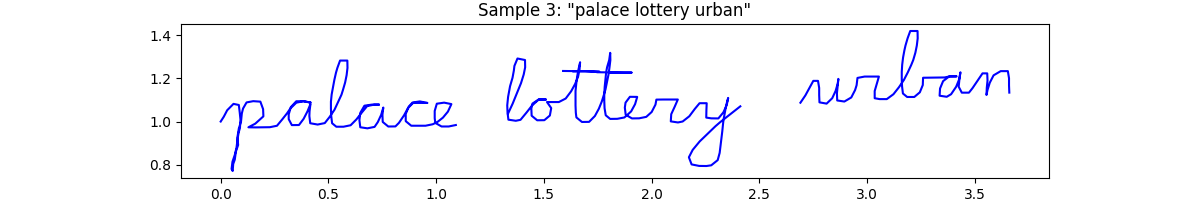
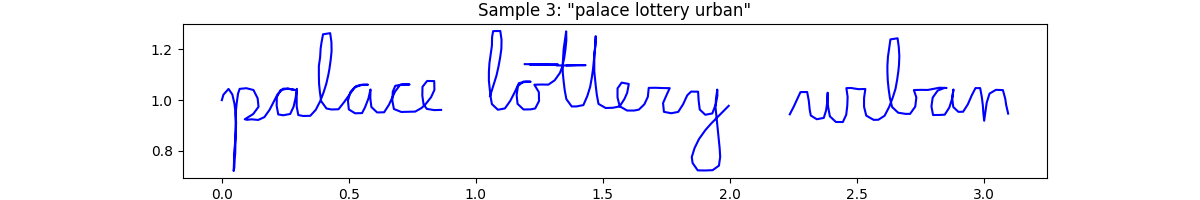
Add cross attention ablation samples

diff --git a/README.md b/README.md
@@ -78,3 +78,9 @@ Quite surprisingly, this led to significantly worse samples, to the point where 
 ![sample_v10](static/sample_v10.png)
 
 ![sample_v11](static/sample_v11.png)
+
+**Cross attention ablation.** For fun I did a quick ablation where I zeroed out the vectors representing the ASCII inputs before they are passed to the cross attention layer. As one might expect, we get nice cursive letters that do not spell much of anything.
+
+![sample_v12](static/sample_v12.png)
+
+![sample_v13](static/sample_v13.png)
